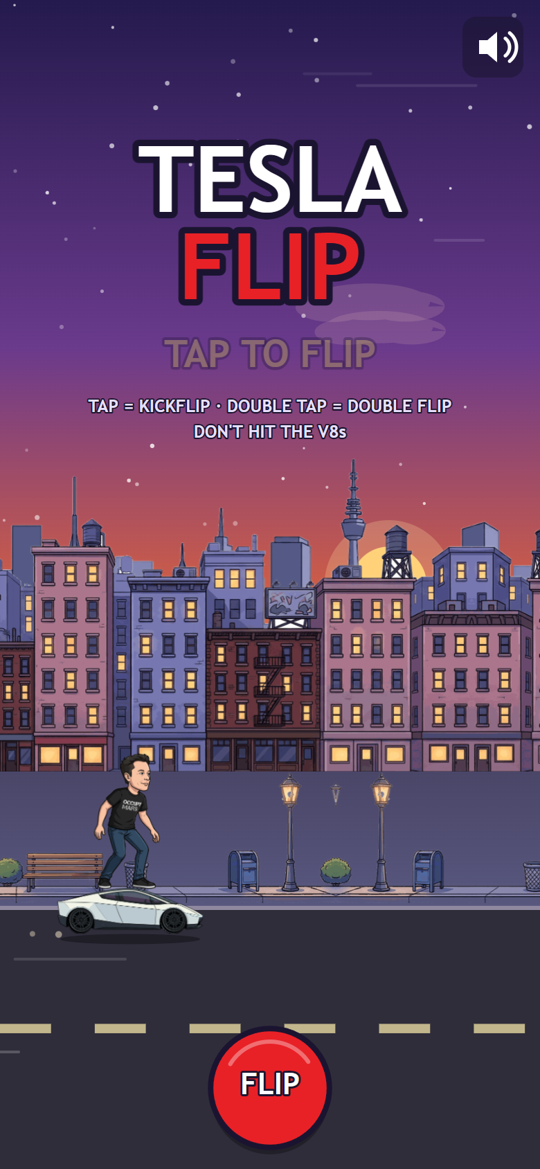
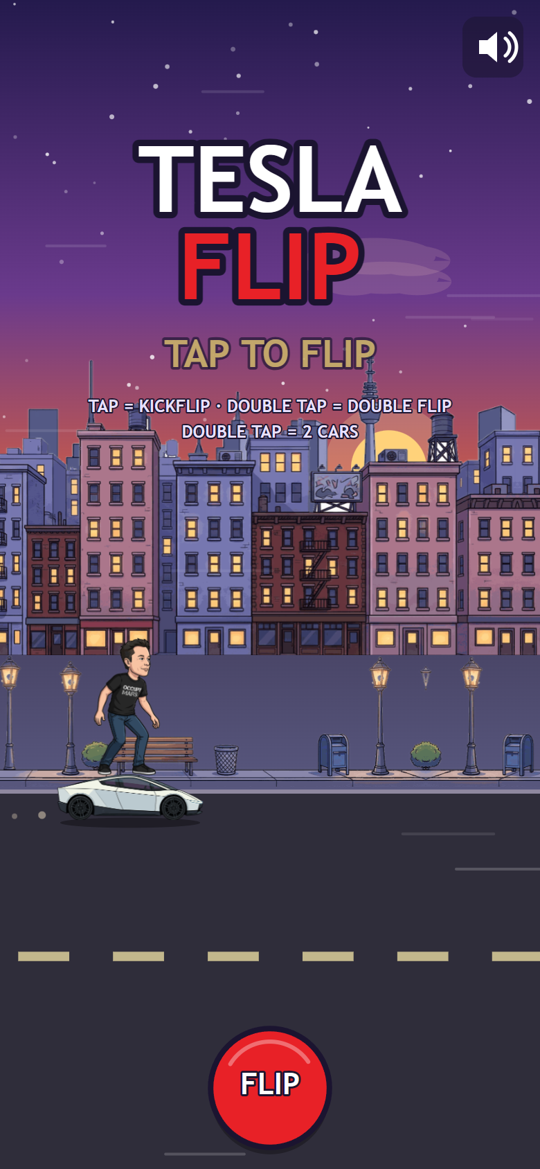
v0.5: raised portrait layout, first-run DOUBLE TAP tutorial with slow-mo, soft bubble tap sound

diff --git a/src/game.js b/src/game.js
@@ -20,7 +20,7 @@ const CFG = {
   LAYER_REF_H: 1920,            // bg layers are authored for a 1920 px-tall portrait frame
   NEAR_FIT: [0.9, 1.6],         // bg_near is stretched to fill horizon→kerb, within these × of layer scale
   LAYOUT: {                     // fractions of screen height / width
-    portrait: { horizon: 0.66, ground: 0.80, carWFrac: 0.27, playerX: 0.24 },
+    portrait: { horizon: 0.56, ground: 0.70, carWFrac: 0.27, playerX: 0.24 },   // rider near the vertical centre
     landscape: { horizon: 0.62, ground: 0.82, carWFrac: 0.20, playerX: 0.28 },
     curb: 0.025, dash: 0.38, farLift: 0.07,       // kerb height, dash row inside the road, bg_far raised above horizon
     sun: { x: 0.72, up: 0.16, r: 0.07 },          // r × min(W,H); up × H above the horizon
@@ -71,7 +71,10 @@ const CFG = {
   PUFF_EVERY: [0.7, 1.8], PUFF_AT: { x: 0.93, y: 0.12 },
   CRASH_S: 0.8,
   POOL: { particles: 96, lines: 12, pops: 4, obstacles: 6 },
-  KEY_BEST: 'teslaflip.best',
+  KEY_BEST: 'teslaflip.best', KEY_TUTORIAL: 'teslaflip.tutorialDone',
+  // First-run tutorial: fixed spawns (three singles, then a close pair) with a "DOUBLE TAP!" hint and slow motion
+  // until the player clears a pair once. Slow motion is a true world time-scale so jump geometry is unchanged.
+  TUTORIAL: { kinds: ['obst_muscle', 'obst_sedan', 'obst_pickup'], pairGap: 0.38, pairLead: 1.5, slow: 0.6, easeS: 0.4, pulseHz: 2.5 },
 };
 
 const IMG_FILES = {
@@ -189,6 +192,7 @@ function layout() {
   fs('btn', L.btn.r * 0.5); fs('pop', clamp(m * 0.08, 20, 44));
   const panel = clamp(m * 0.11, 26, 64);
   fs('panel', panel * 0.8); fs('panelS', panel * 0.45); fs('panelTap', panel * 0.52);
+  fs('tutorial', clamp(m * 0.1, 24, 64));
   L.panelUnit = panel; L.titleSize = title;
 
   L.sky = ctx.createLinearGradient(0, 0, 0, L.horizonY);
@@ -324,13 +328,15 @@ const G = {
   crash: { t: 0, mx: 0, my: 0, mvx: 0, mvy: 0, ma: 0, mav: 0, cx: 0, cy: 0, cvx: 0, cvy: 0, ca: 0, cav: 0 },
   particles: [], lines: [], pops: [], obstacles: [],
   paused: false,                 // QA hook: freezes the rAF physics so TF.step() can drive it
+  timeScale: 1, timeTarget: 1,   // world time-scale (tutorial slow motion), eased in real time in frame()
+  tut: { done: false, active: false, spawns: 0, hint: false, pair1: null, pair2: null },
 };
 for (let i = 0; i < CFG.POOL.particles; i++) G.particles.push({ life: 0, max: 1, x: 0, y: 0, vx: 0, vy: 0, r: 1, smoke: false });
 for (let i = 0; i < CFG.POOL.lines; i++) G.lines.push({ x: 0, y: 0, len: 0, spd: 1, a: 0.2 });
 for (let i = 0; i < CFG.POOL.pops; i++) G.pops.push({ alive: false, x: 0, y: 0, t: 0, text: '' });
 for (let i = 0; i < CFG.POOL.obstacles; i++) G.obstacles.push({ alive: false, kind: 'obst_sedan', x: 0, w: 0, h: 0, scored: false, puffT: 0 });
 
-try { G.best = parseInt(localStorage.getItem(CFG.KEY_BEST), 10) || 0; } catch (e) { /* storage blocked */ }
+try { G.best = parseInt(localStorage.getItem(CFG.KEY_BEST), 10) || 0; G.tut.done = localStorage.getItem(CFG.KEY_TUTORIAL) === '1'; } catch (e) { /* storage blocked */ }
 G.bestStr = 'BEST ' + G.best;
 
 function clamp(v, a, b) { return v < a ? a : v > b ? b : v; }
@@ -398,13 +404,20 @@ function lowKind() { return Math.random() < 0.5 ? 'obst_muscle' : 'obst_sedan'; 
 /** Spawns the next obstacle — or a close pair (both cars at once, so the pair is readable the
  *  moment it enters the screen; it needs the double flip) — and schedules the one after it. */
 function spawnNext() {
-  const first = spawnObstacle(G.nextKind);
+  const T = G.tut, TC = CFG.TUTORIAL, tutPair = T.active && T.spawns === 3;
+  if (T.active && T.spawns < 3) { G.nextKind = TC.kinds[T.spawns]; G.nextPair = false; }
+  if (tutPair) { G.nextKind = lowKind(); G.nextPair = true; }
+  // The tutorial pair starts further out so the hint has time to register before it is on screen.
+  const first = spawnObstacle(G.nextKind, tutPair ? L.W + L.carW * TC.pairLead : undefined);
   if (!first) return;
   let span = first.w, wasPair = false;
   if (G.nextPair) {
-    const partner = spawnObstacle(lowKind(), first.x + first.w + rand(CFG.PAIR_GAP[0], CFG.PAIR_GAP[1]) * L.carW);
+    const gap = tutPair ? TC.pairGap : rand(CFG.PAIR_GAP[0], CFG.PAIR_GAP[1]);
+    const partner = spawnObstacle(lowKind(), first.x + first.w + gap * L.carW);
     if (partner) { span = partner.x + partner.w - first.x; wasPair = true; }
+    if (tutPair && partner) { T.pair1 = first; T.pair2 = partner; T.hint = true; G.timeTarget = TC.slow; }
   }
+  if (T.active) T.spawns++;
   // Minimum gap is a distance (flip length at 1.0× + slack), so it stays fair at any speed.
   const flipDur = wasPair ? CFG.DOUBLE.dur : CFG.FLIP.dur;     // recovering from a double takes longer
   const minGap = (CFG.SCROLL_SPEED * flipDur + CFG.GAP_SLACK) * L.carW;
@@ -439,7 +452,11 @@ function updateObstacles(dt) {
     o.puffT -= dt;
     if (o.puffT <= 0) { o.puffT = rand(CFG.PUFF_EVERY[0], CFG.PUFF_EVERY[1]); spawnSmoke(o.x + o.w * CFG.PUFF_AT.x, L.groundY - o.h * CFG.PUFF_AT.y); }
     if (G.state !== 'play') continue;
-    if (!o.scored && o.x + o.w < L.playerX) { o.scored = true; addScore(); }
+    if (!o.scored && o.x + o.w < L.playerX) {
+      o.scored = true; addScore();
+      if (o === G.tut.pair2) tutorialDone();
+      if (o === G.tut.pair1) endTutorialHint();
+    }
     for (const b of CFG.HITBOX[o.kind]) {
       if (o.x + o.w * b.x1 < px2 && o.x + o.w * b.x2 > px1 && pBottom > L.groundY - o.h * b.top) { startCrash(); break; }
     }
@@ -466,7 +483,7 @@ function startCrash() {
   c.mvx = cw * 1.3; c.mvy = -cw * 1.8; c.ma = 0; c.mav = 7;
   c.cx = L.playerX; c.cy = L.groundY - L.carH / 2 - f.cy;                 // car centre
   c.cvx = -cw * 0.7; c.cvy = -cw * 1.1; c.ca = 0; c.cav = -5;
-  f.active = false; f.cy = 0; G.queued = false;
+  f.active = false; f.cy = 0; G.queued = false; endTutorialHint();
   G.shakeT = CFG.SHAKE.ms * 2.5;
   spawnDust(L.playerX, L.groundY - L.carH, 16, 2);
   Snd.play('crash');
@@ -494,8 +511,22 @@ function resetRun() {
   for (const p of G.particles) p.life = 0;
   G.spawnDist = CFG.SCROLL_SPEED * L.carW * CFG.FIRST_SPAWN_S;
   G.nextPair = false; G.nextKind = lowKind();
+  const T = G.tut; T.active = !T.done; T.spawns = 0; T.pair1 = T.pair2 = null; endTutorialHint(); G.timeScale = 1;
   Snd.startLoop('roll');
   Snd.duckMusic(false);
+}
+
+/* Tutorial ----------------------------------------------------------------- */
+function endTutorialHint() { G.tut.hint = false; G.timeTarget = 1; }
+function tutorialDone() {
+  const T = G.tut;
+  T.done = true; T.active = false; endTutorialHint();
+  try { localStorage.setItem(CFG.KEY_TUTORIAL, '1'); } catch (e) { /* ignore */ }
+}
+/** QA hook: force the tutorial on (clears the flag) or mark it done. */
+function setTutorial(on) {
+  G.tut.done = !on;
+  try { if (on) localStorage.removeItem(CFG.KEY_TUTORIAL); else localStorage.setItem(CFG.KEY_TUTORIAL, '1'); } catch (e) { /* ignore */ }
 }
 
 /* Particles ---------------------------------------------------------------- */
@@ -618,6 +649,7 @@ function render() {
   if (DEBUG) drawDebug();
 
   drawHUD();
+  if (G.tut.hint && G.state === 'play') drawTutorialHint();
   if (G.state === 'title') drawTitle();
   if (G.state === 'over') drawGameOver();
 }
@@ -852,8 +884,17 @@ function drawTitle() {
     ctx.fillStyle = 'rgba(27,20,48,0.6)'; roundRect(tx - pw / 2, hy - hint * 0.6, pw, ph, 12); ctx.fill();
   }
   drawText('TAP = KICKFLIP · DOUBLE TAP = DOUBLE FLIP', tx, hy, 'hint', COLORS.lilac);
-  drawText("DON'T HIT THE V8s", tx, hy + hint * 1.5, 'hint', COLORS.lilac);
+  drawText(G.tut.done ? "DON'T HIT THE V8s" : 'DOUBLE TAP = 2 CARS', tx, hy + hint * 1.5, 'hint', COLORS.lilac);
   if (G.best > 0) drawText(G.bestStr, W / 2, L.safe.t + 12, 'best', COLORS.gold);
+}
+
+/** "DOUBLE TAP!" pulsing above the rider while the tutorial pair approaches. */
+function drawTutorialHint() {
+  const size = L.fonts.tutorial.size, pulse = 1 + 0.06 * Math.sin(G.time * TAU * CFG.TUTORIAL.pulseHz);
+  const x = Math.max(size * 3.4, L.playerX), y = RIDER.feetY - muskH() - L.H * 0.05 - size;
+  ctx.save(); ctx.translate(x, y); ctx.scale(pulse, pulse);
+  drawText('DOUBLE TAP!', 0, -size / 2, 'tutorial', '#fff');
+  ctx.restore();
 }
 
 function drawGameOver() {
@@ -894,7 +935,7 @@ function onTap(x, y) {
   if (x >= 0 && x >= L.mute.x && x <= L.mute.x + L.mute.s && y >= L.mute.y && y <= L.mute.y + L.mute.s) { Snd.toggleMute(); return; }
   G.btnT = 120;
   if (G.state === 'title') { resetRun(); tryFlip(); return; }
-  if (G.state === 'play') { tryFlip(); return; }
+  if (G.state === 'play') { if (G.tut.hint) endTutorialHint(); tryFlip(); return; }
   if (G.state === 'over') resetRun();           // 'crash' ignores taps so the panel can't be skipped by accident
 }
 
@@ -925,8 +966,11 @@ function frame(ts) {
   let dt = (ts - lastTs) / 1000; lastTs = ts;
   if (dt > CFG.MAX_FRAME_DT) dt = CFG.MAX_FRAME_DT;
   if (!G.paused) {
+    // tutorial slow motion: ease the world time-scale in real time, then step physics in world time
+    const k = (1 - CFG.TUTORIAL.slow) / CFG.TUTORIAL.easeS * dt;
+    G.timeScale = G.timeScale < G.timeTarget ? Math.min(G.timeTarget, G.timeScale + k) : Math.max(G.timeTarget, G.timeScale - k);
     acc += dt;
-    while (acc >= CFG.FIXED_DT) { update(CFG.FIXED_DT); acc -= CFG.FIXED_DT; }
+    while (acc >= CFG.FIXED_DT) { update(CFG.FIXED_DT * G.timeScale); acc -= CFG.FIXED_DT; }
   }
   render();
 }
@@ -950,7 +994,7 @@ document.addEventListener('visibilitychange', () => {
 // QA hook: state inspection, deterministic spawns and stepping (set TF.G.paused = true, then TF.step(n)).
 window.TF = {
   G, L, CFG, SPR,
-  tap: () => onTap(-1, -1), spawnObstacle, resetRun,
+  tap: () => onTap(-1, -1), spawnObstacle, resetRun, setTutorial,
   step: (n = 1) => { for (let i = 0; i < n; i++) update(CFG.FIXED_DT); },
   pose: () => { updateCarPose(); updateRiderPose(); return { carTop: CAR.topY, feetY: RIDER.feetY, k: CAR.k, sy: CAR.sy }; },
 };

diff --git a/tools/make_sfx.py b/tools/make_sfx.py
@@ -133,7 +133,8 @@ def remove_dc(x):
 
 def finish_oneshot(x, fin, fout, drive=1.3, peak_db=ONESHOT_PEAK_DB):
     x = remove_dc(x)
-    x = soft_clip(x, drive)
+    if drive:                       # drive=None -> no saturation at all
+        x = soft_clip(x, drive)
     x = fades(x, fin, fout)
     x = x - x.mean(axis=0)          # kill residual DC
     x = fades(x, 0.0005, 0.0005)    # re-zero the edges after the shift
@@ -215,27 +216,34 @@ def make_roll():
 
 
 def make_pop():
+    """Soft, round "bubble pop" for the tap (owner feedback: no hard knock).
+    Pure sine bloop gliding DOWN 900 -> 350 Hz, soft attack, smooth decay,
+    a whisper of 2nd harmonic and a faint low-passed air puff. No clicks,
+    no resonators, no saturation."""
     rng = np.random.default_rng(202)
-    t = tvec(0.30)
+    t = tvec(0.28)
     n = len(t)
 
-    # transient click: 5 ms bright noise burst
-    click = svf(rng.standard_normal(n), 2500, 0.8, "hp") * env_exp(t, 0.0, 0.0012, 0.0002)
-    click *= (t < 0.005)
-    # wooden body: two damped resonances
-    wood = (0.55 * np.sin(2 * np.pi * 820 * t) * env_exp(t, 0, 0.012, 0.0003)
-            + 0.30 * np.sin(2 * np.pi * 1730 * t) * env_exp(t, 0, 0.006, 0.0003))
-    # pitched thump 150 -> 60 Hz over 60 ms
-    ph, _ = glide_phase(150, 60, t, 0.060)
-    thump = saturate(np.sin(ph), 2.0) * env_exp(t, 0.0, 0.035, 0.001)
-    # start of a whoosh: band-passed noise, centre freq rising 500 -> 1.4 kHz,
-    # level swelling to ~0.18 s and easing off so the file ends quietly
-    ramp = np.clip((t - 0.03) / 0.27, 0, 1)
-    wenv = np.sin(np.pi * np.clip((t - 0.03) / 0.30, 0, 1)) ** 1.5
-    whoosh = bp4(rng.standard_normal(n), 500 + 900 * ramp, 1.0) * wenv
+    # pitch: exponential glide 900 -> 350 Hz over 100 ms + tiny fading wobble
+    frac = np.clip(t / 0.100, 0, 1)
+    f = 900.0 * (350.0 / 900.0) ** frac
+    f *= 1 + 0.012 * np.sin(2 * np.pi * 22 * t) * np.exp(-t / 0.06)
+    ph = 2 * np.pi * np.cumsum(f) / SR
+    tone = np.sin(ph) + 0.06 * np.sin(2 * ph + 0.3)
 
-    x = 0.9 * click + 0.7 * wood + 1.0 * thump + 0.55 * whoosh
-    return finish_oneshot(x, 0.0005, 0.040)
+    # 4 ms raised-cosine attack, exponential decay (~-55 dB at 0.22 s)
+    att = 0.004
+    a = np.where(t < att, 0.5 - 0.5 * np.cos(np.pi * np.clip(t / att, 0, 1)), 1.0)
+    env = a * np.exp(-np.maximum(t - att, 0) / 0.035)
+    bloop = tone * env
+
+    # faint air puff: noise low-passed < 1.2 kHz, 30 ms, -18 dB vs the bloop
+    puff = svf(svf(rng.standard_normal(n), 1000, 0.707, "lp"), 1000, 0.707, "lp")
+    pw = np.clip(t / 0.030, 0, 1)
+    puff *= np.sin(np.pi * pw) ** 2 * (t <= 0.030)
+    puff *= db2lin(-18) * np.max(np.abs(bloop)) / np.max(np.abs(puff))
+
+    return finish_oneshot(bloop + puff, 0.0, 0.050, drive=None)
 
 
 def make_flip():
@@ -277,18 +285,18 @@ def make_land():
     knock = np.sin(2 * np.pi * 210 * t) * env_exp(t, 0.0, 0.015, 0.0008)
     thwack = svf(rng.standard_normal(n), 700, 0.7, "lp") * env_exp(t, 0, 0.008, 0.0005)
 
-    # wheel chirp: 40 ms noise burst, band-pass 3 kHz -> 1.6 kHz, fairly tight
+    # wheel chirp: 40 ms noise burst, band-pass 2 kHz -> 1 kHz (softened to sit with the bubble pop)
     t0, cl = 0.008, 0.040
     w = np.clip((t - t0) / cl, 0, 1)
     chirp_env = np.sin(np.pi * w) ** 2 * ((t >= t0) & (t <= t0 + cl))
-    chirp = svf(rng.standard_normal(n), 3000 * (1600 / 3000) ** w, 6.0, "bp") * chirp_env
+    chirp = svf(rng.standard_normal(n), 2000 * (1000 / 2000) ** w, 6.0, "bp") * chirp_env
 
     # subtle metallic clank: inharmonic partials (ratio ~1.575)
     clank = (np.sin(2 * np.pi * 1530 * t) * env_exp(t, 0.003, 0.045, 0.0005)
              + 0.7 * np.sin(2 * np.pi * 2410 * t + 0.5) * env_exp(t, 0.003, 0.030, 0.0005)
              + 0.25 * np.sin(2 * np.pi * 3970 * t + 1.3) * env_exp(t, 0.003, 0.015, 0.0005))
 
-    x = 1.0 * thud + 0.30 * knock + 0.35 * thwack + 0.55 * chirp + 0.10 * clank
+    x = 1.0 * thud + 0.30 * knock + 0.35 * thwack + 0.39 * chirp + 0.10 * clank   # chirp -3 dB
     return finish_oneshot(x, 0.0005, 0.030)
 
 
